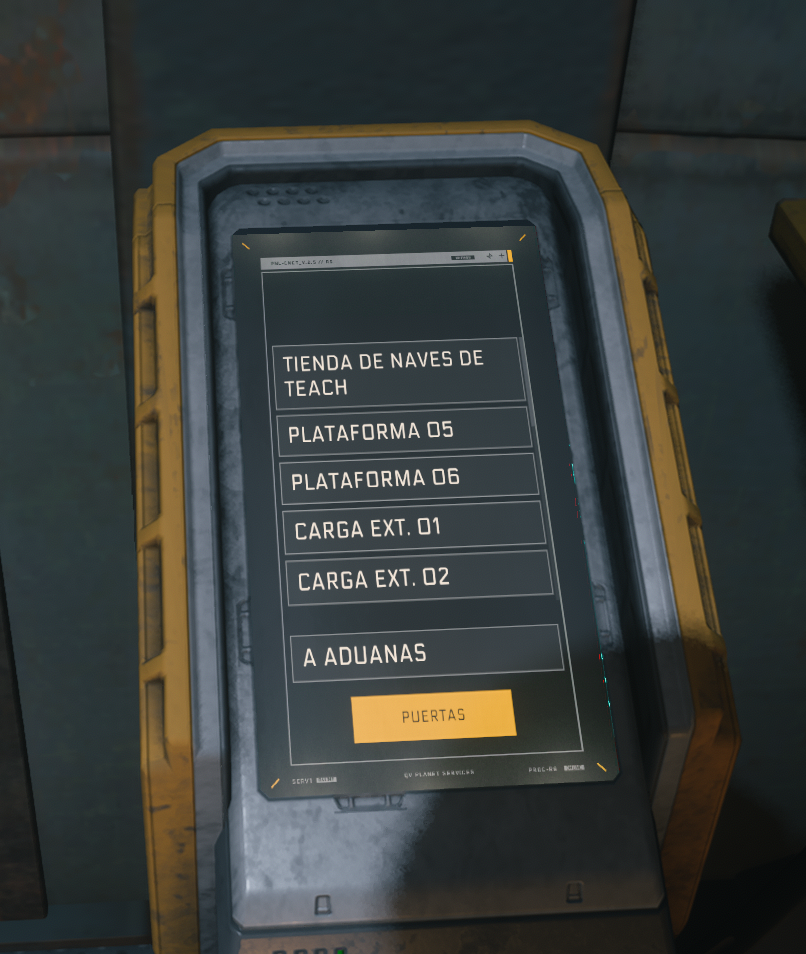
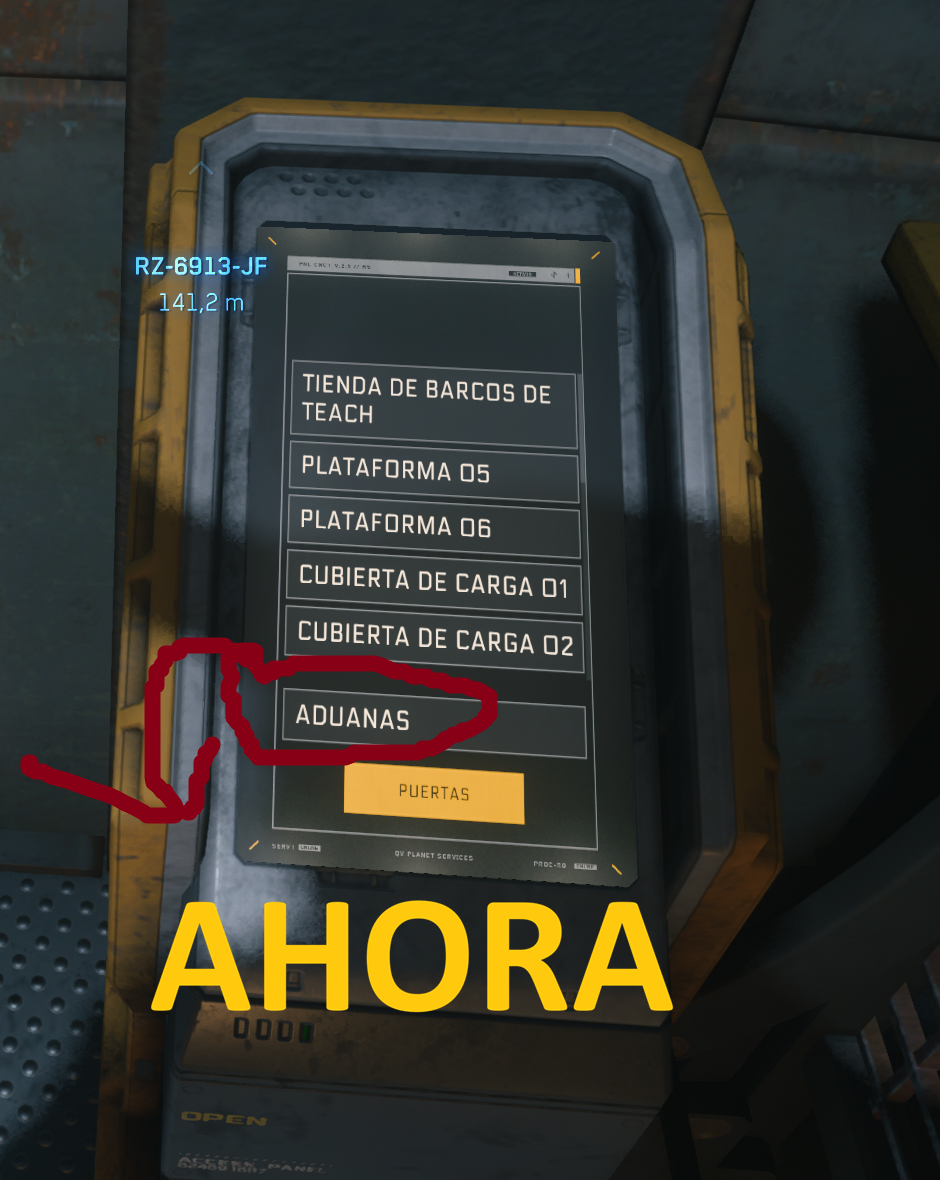
Update root README.md and imagenes folder

diff --git a/README.md b/README.md
@@ -16,7 +16,7 @@ Traducción comunitaria del archivo de localización `global.ini` de **Star Citi
 
 El proyecto se construye sobre un pipeline propio de varias etapas de revisión y genera paquetes ZIP listos para instalar directamente en el juego.
 
-> **Compatibilidad:** LIVE y PTU de Star Citizen.
+> **Compatibilidad:** LIVE de Star Citizen.
 
 ---
 
@@ -39,7 +39,6 @@ El proyecto se construye sobre un pipeline propio de varias etapas de revisión 
 
 3. **Inicia el juego** y verifica que los textos aparezcan en español.
 
-> **Nota:** si juegas en PTU, asegúrate de descargar la versión compatible con esa rama del juego.
 
 ---
 
@@ -78,8 +77,14 @@ Tabla de firmas de escaneo en el diario de minería del mobiGlas: relaciona cada
 Las fichas de materiales incluyen sus ubicaciones (dónde encontrarlos) y los datos blueprint (en qué se usan para fabricar).
 
 ![Minería en misiones](imagenes/mineria.png)
+![Minería en misiones](imagenes/mineria1.png)
+![Minería en misiones](imagenes/mineria2.png)
+![Minería en misiones](imagenes/mineria3.png)
 
-En las misiones de minería, los detalles de misión muestran las firmas de los materiales.
+En las misiones de minería o en las misiones de battaglia, los detalles de misión muestran las firmas de los materiales minables.
+En la primera foto de ANTES en el global.ini del juego no sale las firmas de los materiales minables esto lo busque yo y lo añadi ya que el proprio juego los tiene pero no la orden para aparecer en la pantalla.
+
+![Minería en misiones](imagenes/newbabbage.png)
 
 ### Antes y después: ascensor de Levski (Nyx)
 
@@ -87,7 +92,7 @@ En las misiones de minería, los detalles de misión muestran las firmas de los 
 
 ![Después: ADUANAS](imagenes/levskiahora.png)
 
-Pantalla del ascensor en Nyx (Levski): antes ponía **A ADUANAS** y ahora **ADUANAS**.
+Pantalla del ascensor en Nyx (Levski): antes ponía **CUSTOMS** y ahora **ADUANAS**.
 
 ![Aduana al salir del ascensor](imagenes/aduanaslesvki.png)
 
@@ -146,8 +151,10 @@ Si encuentras textos sin traducir, errores de ortografía o problemas con la ins
 
 👉 [Nuevo issue en GitHub](https://github.com/juniormaos-max/Star_citizen_traducion.ES/issues)
 
+👉 Tambien puedes encontrarme en el discord de la CCBE https://discord.gg/8ZpvNM5qRB  para informar de errores de ortografía o problemas con la instalación.
+
 Incluye:
-- Versión del juego (LIVE o PTU)
+- Versión del juego (LIVE)
 - Variante instalada (ES o Latam)
 - Captura de pantalla del error (si aplica)
 - Texto original y texto esperado
